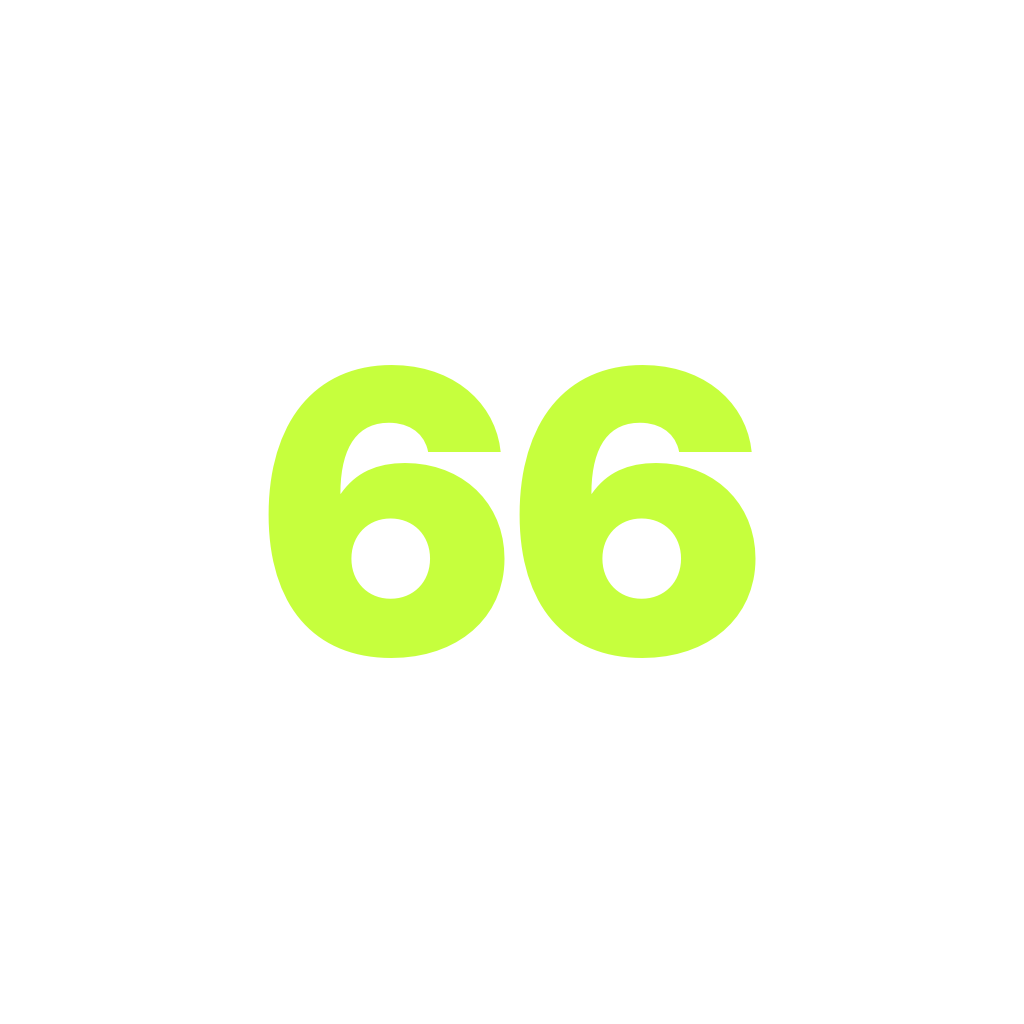
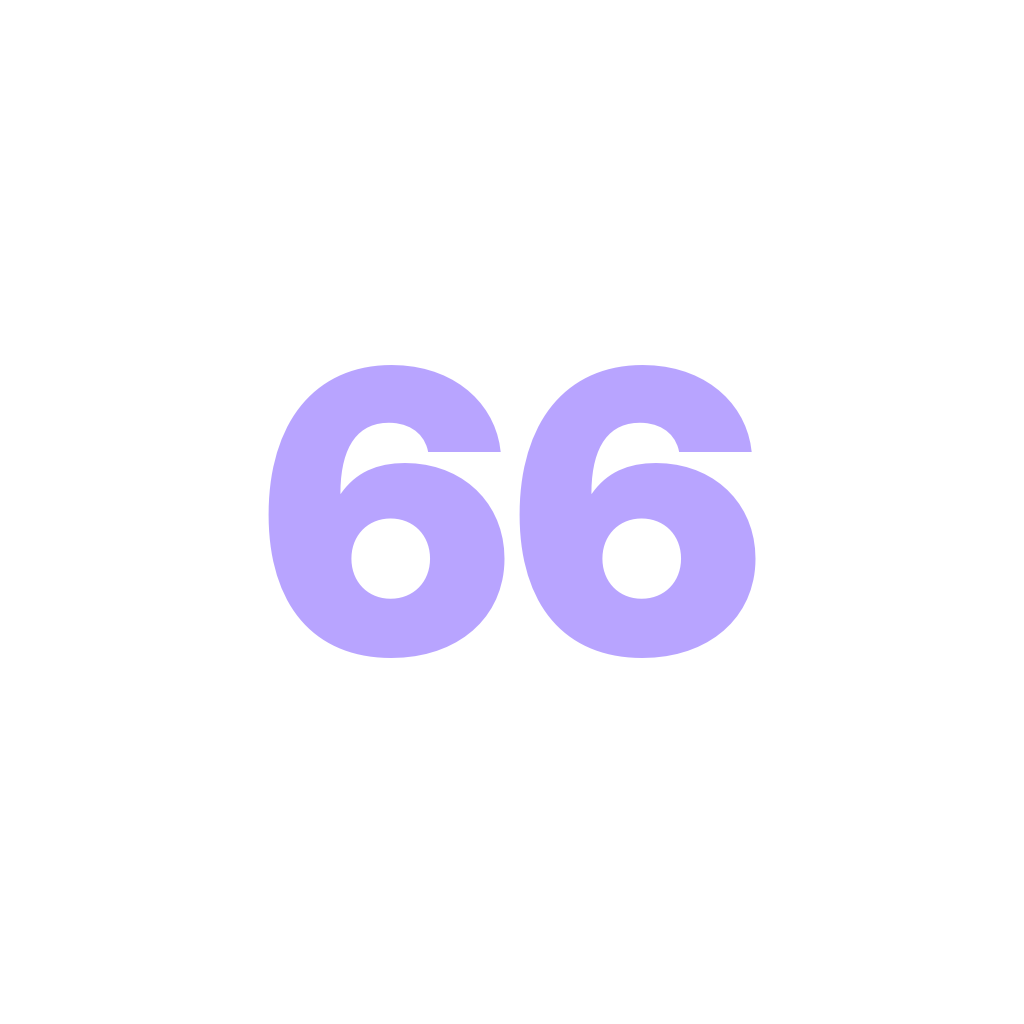
Switch to lavender/violet color system
Dark: charcoal surfaces, soft white text, lavender accent.
Light: off-white surfaces, dark text, deeper violet accent.
Updates share card, ceremony glow, icon, splash and notification color.

Claude-Session: https://claude.ai/code/session_01TpqLTggzL92uJWvftw7JkZ

Changed region(s): [[0.25, 0.3438, 0.75, 0.6562]]

diff --git a/src/theme/index.ts b/src/theme/index.ts
@@ -2,32 +2,32 @@ import { useColorScheme } from 'react-native';
 import type { TextStyle } from 'react-native';
 
 const dark = {
-  bg: '#09090A',
-  surface: '#141416',
-  surfaceHigh: '#1D1D20',
-  border: '#27272B',
-  text: '#F4F4F5',
-  textDim: '#A3A3AB',
-  textFaint: '#66666E',
-  accent: '#C6FF3D', // fills: buttons, checks, progress
-  onAccent: '#0B0F00',
-  accentInk: '#C6FF3D', // accent used as text/icons on the background
-  accentSoft: 'rgba(198,255,61,0.12)',
+  bg: '#141417', // charcoal
+  surface: '#1E1E23', // cards
+  surfaceHigh: '#2A2A31',
+  border: '#33333B',
+  text: '#F3F1F8', // soft white
+  textDim: '#ABA8B8',
+  textFaint: '#706D7C',
+  accent: '#B8A4FF', // lavender — fills: buttons, checks, progress
+  onAccent: '#17122E',
+  accentInk: '#B8A4FF', // accent used as text/icons on the background
+  accentSoft: 'rgba(184,164,255,0.14)',
   warm: '#FFB547', // streak flame only
 };
 
 const light: typeof dark = {
-  bg: '#F5F5F1',
+  bg: '#F6F5F9', // soft off-white
   surface: '#FFFFFF',
-  surfaceHigh: '#ECECE6',
-  border: '#E2E2DB',
-  text: '#0B0B0C',
-  textDim: '#55555C',
-  textFaint: '#8D8D94',
-  accent: '#C6FF3D',
-  onAccent: '#0B0F00',
-  accentInk: '#3E7200',
-  accentSoft: 'rgba(98,160,0,0.12)',
+  surfaceHigh: '#ECEAF2',
+  border: '#E0DDE8',
+  text: '#1B1926', // dark, readable
+  textDim: '#5A5769',
+  textFaint: '#8F8C9D',
+  accent: '#6B4BDE', // deeper violet for contrast on light surfaces
+  onAccent: '#FFFFFF',
+  accentInk: '#5A3CCB',
+  accentSoft: 'rgba(107,75,222,0.10)',
   warm: '#D97A00',
 };
 

diff --git a/src/components/ShareCard.tsx b/src/components/ShareCard.tsx
@@ -28,9 +28,9 @@ export function ShareCard({
   return (
     // Rounded on screen, square in the exported image (the ref'd view has no radius).
     <View style={{ borderRadius: 24 * s, overflow: 'hidden' }}>
-      <View ref={ref} collapsable={false} style={{ width, height: width * 1.25, backgroundColor: '#060606' }}>
+      <View ref={ref} collapsable={false} style={{ width, height: width * 1.25, backgroundColor: '#0F0E13' }}>
         <LinearGradient
-          colors={['#18210A', '#0A0B08', '#060606']}
+          colors={['#2A2145', '#16141C', '#0F0E13']}
           start={{ x: 0.1, y: 0 }}
           end={{ x: 0.9, y: 1 }}
           style={StyleSheet.absoluteFill}
@@ -80,6 +80,6 @@ export function ShareCard({
 }
 
 const styles = StyleSheet.create({
-  glow: { position: 'absolute', backgroundColor: 'rgba(198,255,61,0.10)' },
+  glow: { position: 'absolute', backgroundColor: 'rgba(184,164,255,0.12)' },
   stat: { flex: 1, backgroundColor: 'rgba(255,255,255,0.06)' },
 });

diff --git a/src/app/ceremony.tsx b/src/app/ceremony.tsx
@@ -132,7 +132,7 @@ function BigNumber({ value }: { value: number }) {
           fontWeight: '900',
           letterSpacing: -8,
           fontVariant: ['tabular-nums'],
-          textShadowColor: 'rgba(198,255,61,0.45)',
+          textShadowColor: 'rgba(184,164,255,0.5)',
           textShadowRadius: 40,
         },
       ]}
